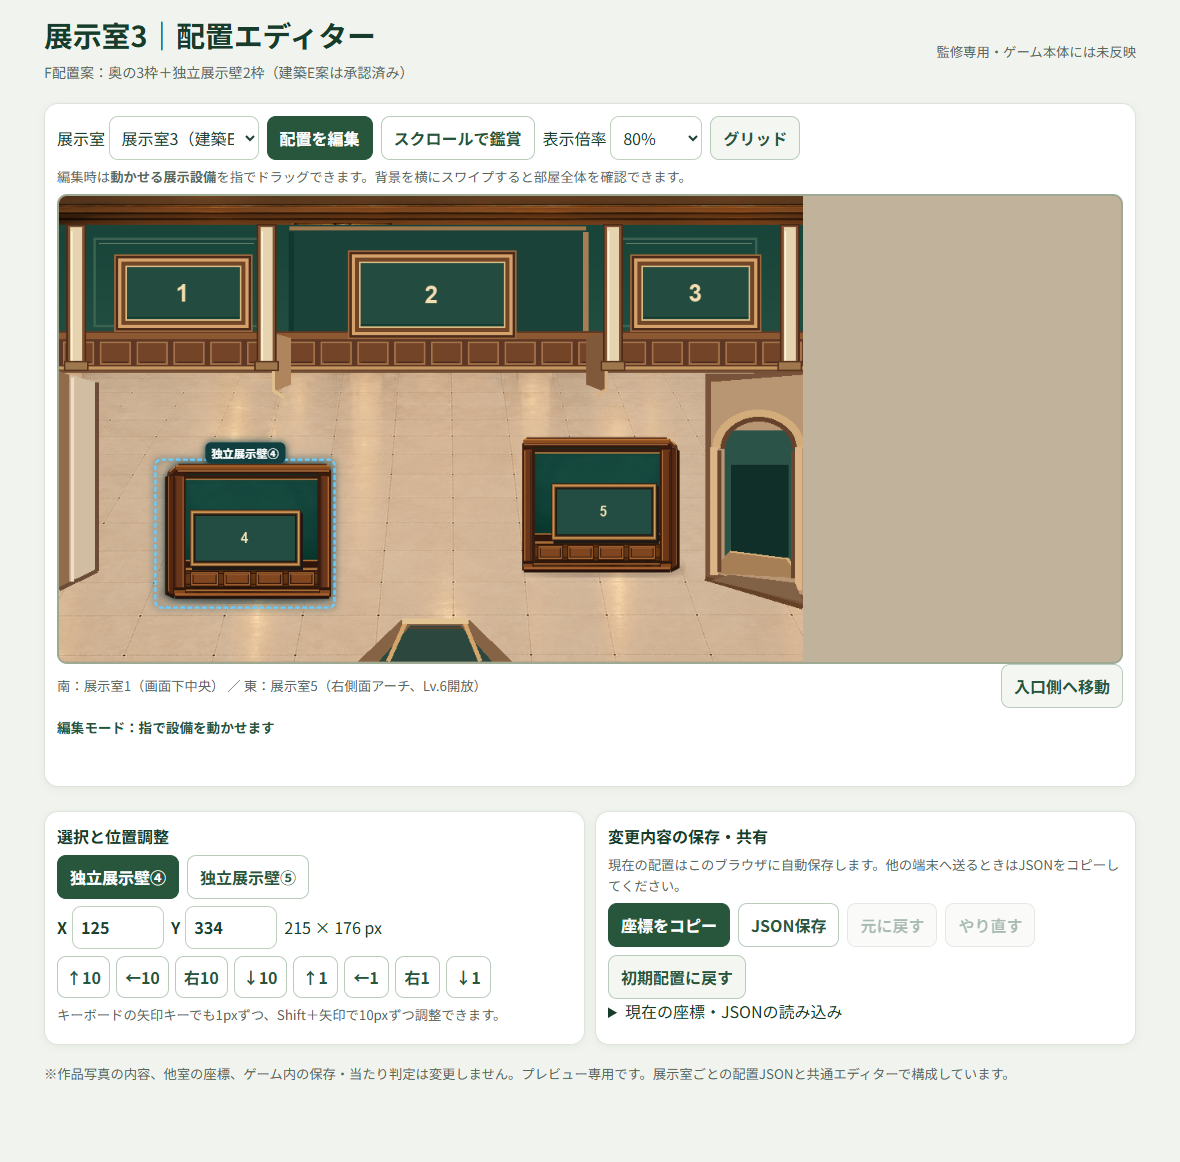
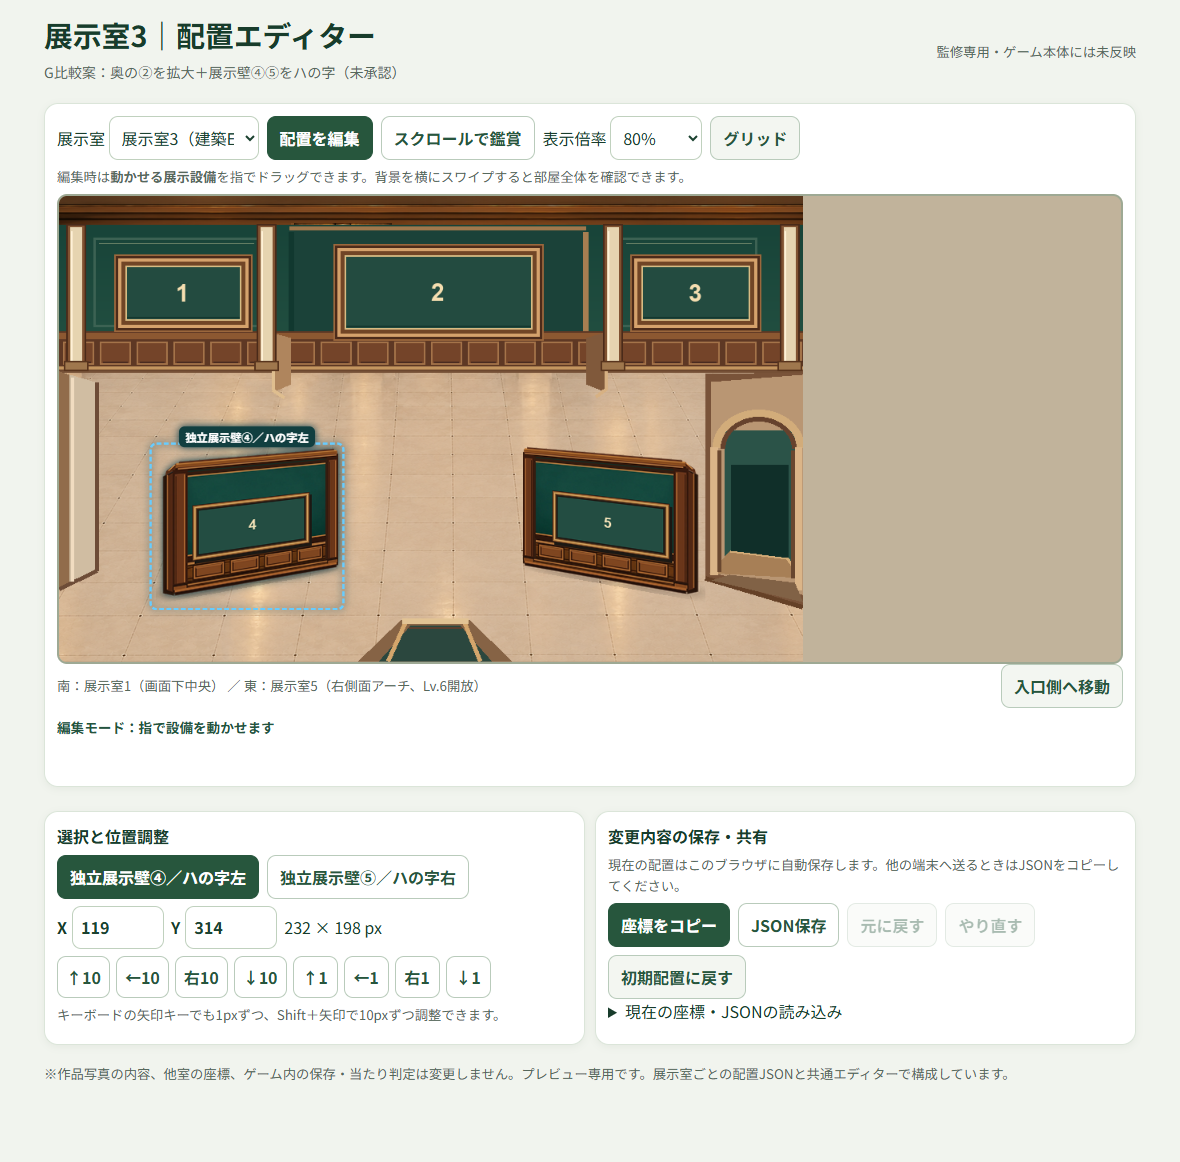
feat(a18): compare enlarged central frame and Hachi-angled walls in gallery3 G

diff --git a/qa/gallery3_angle_G.py b/qa/gallery3_angle_G.py
@@ -1,0 +1,101 @@
+"""Exhibition room 3 G: larger central frame and symmetric Hachi-shaped angled partitions.
+
+Architecture E remains byte-exact; preserves F as independent comparison.
+Proposal only. No game implementation/collision claims.
+"""
+from pathlib import Path
+from PIL import Image, ImageDraw, ImageFont
+import numpy as np
+import json, hashlib, shutil
+
+root=Path(__file__).resolve().parents[1]
+f=root/"rooms/gallery3"
+e_arch=f/"gallery3_architecture_only_E.png"
+sha_e=hashlib.sha256(e_arch.read_bytes()).hexdigest()
+config=f/"room.json"
+room=json.loads(config.read_text(encoding="utf-8"))
+assert room["id"]=="gallery3" and room["layoutRevision"] in ("gallery3-E-architecture-approved-F-five-frames-unapproved-20261029","gallery3-E-approved-G-hachi-proposal-20261029")
+assert sorted(o["id"] for o in room["objects"])==["wall4","wall5"]
+# Snapshot F's coordinates/layout in JSON before switching editor to the proposed G.
+f_ref=f/"room_F_reference.json"
+if room["layoutRevision"]=="gallery3-E-architecture-approved-F-five-frames-unapproved-20261029":
+    assert not f_ref.exists(), "F snapshot already exists"
+    f_ref.write_text(json.dumps(room,ensure_ascii=False,indent=2)+"\n",encoding="utf-8")
+else:
+    assert json.loads(f_ref.read_text(encoding="utf-8"))["layoutRevision"]=="gallery3-E-architecture-approved-F-five-frames-unapproved-20261029"
+
+# E architecture, unmodified. Positions #1 and #3 from approved F initial proposal.
+arch=Image.open(e_arch).convert("RGBA")
+bg=arch.copy()
+d=ImageDraw.Draw(bg)
+font=ImageFont.truetype(r"C:\Windows\Fonts\arialbd.ttf",30)
+rear=[(1,74,78,162,86),(2,348,65,252,110),(3,719,78,153,86)]
+for n,x,y,w,h in rear:
+    d.rectangle((x-5,y-5,x+w+5,y+h+5),fill="#4c2b1a",outline="#9b673c",width=2)
+    d.rectangle((x,y,x+w,y+h),fill="#714526",outline="#d5a26c",width=4)
+    d.rectangle((x+9,y+9,x+w-9,y+h-9),fill="#234b40",outline="#d7bb83",width=2)
+    d.line((x+11,y+h-13,x+w-11,y+h-13),fill="#15382f",width=2)
+    d.text((x+w/2,y+h/2),str(n),fill="#f5deb0",font=font,anchor="mm")
+bg.save(f/"gallery3_layout_G_rear_frames.png")
+
+def perspective_wall(src_path, out_path, quad, size=(232,198)):
+    """Map rectangular front face to a tilted-in-depth quadrilateral (NOT rotate pixels)."""
+    src=Image.open(src_path).convert("RGBA")
+    sw,sh=src.size
+    # Solve 3x3 homography H: destination local coords -> source coords.
+    pts=[(0,0),(sw,0),(sw,sh),(0,sh)]
+    a=[]; b=[]
+    for (xd,yd),(xs,ys) in zip(quad,pts):
+        a.append([xd,yd,1,0,0,0,-xs*xd,-xs*yd]); b.append(xs)
+        a.append([0,0,0,xd,yd,1,-ys*xd,-ys*yd]); b.append(ys)
+    v=np.linalg.solve(np.array(a,dtype=float),np.array(b,dtype=float))
+    warped=src.transform(size,Image.Transform.PERSPECTIVE,tuple(v),resample=Image.Resampling.BICUBIC,fillcolor=(0,0,0,0))
+    warped.save(out_path)
+    return warped
+
+# Perspective: left slants / up to center, right slants back down \.
+width,height=232,198
+left=perspective_wall(f/"wall4.png",f/"wall4_angle_G.png",
+                      [(2,20),(230,1),(230,155),(2,196)])
+right=perspective_wall(f/"wall5.png",f/"wall5_angle_G.png",
+                       [(2,1),(230,20),(230,196),(2,155)])
+items=[
+ ("wall4","独立展示壁④／ハの字左",119,314,width,height,"wall4_angle_G.png"),
+ ("wall5","独立展示壁⑤／ハの字右",578,312,width,height,"wall5_angle_G.png")
+]
+for _,_,x,y,w,h,_ in items:assert x>=0 and y>=0 and x+w<930 and y+h<582
+# South entrance ground threshold is centered x~470 near lower edge.
+assert all((x+w<395 or x>540 or y+h<527) for _,_,x,y,w,h,_ in items)
+# East exit begins near right wall x=808, leave extra margin.
+assert items[1][2]+items[1][4]<=810
+
+view=bg.copy()
+for n,label,x,y,w,h,filename in items:
+    view.alpha_composite(Image.open(f/filename).convert("RGBA"),(x,y))
+view.save(f/"gallery3_layout_G_hachi.png")
+
+# Honest side-by-side comparison with the exact F image.
+f_img=Image.open(f/"gallery3_layout_F_five_frames.png").convert("RGB")
+g_img=view.convert("RGB")
+compare=Image.new("RGB",(930*2+48,582+64),"#f1eadf")
+compare.paste(f_img,(12,54)); compare.paste(g_img,(942,54))
+ad=ImageDraw.Draw(compare)
+headfont=ImageFont.truetype(r"C:\Windows\Fonts\meiryo.ttc",19)
+ad.text((12,18),"F案：従来の正面配置／中央作品200×100",fill="#263a33",font=headfont)
+ad.text((942,18),"G案：中央作品252×110＋ハの字展示壁",fill="#263a33",font=headfont)
+compare.save(f/"gallery3_F_vs_G_comparison.png")
+
+room.update({
+ "background":"rooms/gallery3/gallery3_layout_G_rear_frames.png",
+ "objects":[{"id":n,"label":label,"image":f"rooms/gallery3/{filename}",
+             "rect":{"x":x,"y":y,"w":w,"h":h}}
+            for n,label,x,y,w,h,filename in items],
+ "subtitle":"G比較案：奥の②を拡大＋展示壁④⑤をハの字（未承認）",
+ "layoutRevision":"gallery3-E-approved-G-hachi-proposal-20261029",
+ "status":"E architectural outline approved, G frame sizes/angles unapproved",
+ "notes":"E architectural base remains preserved unchanged. Rear 1&3 unchanged. Rear 2 enlarged 200x100 =>252x110; movable 4&5 perspective-distorted as dedicated images, no geometric rotation applied to a flat rectangle. Walkability, wall footprints, layer sorting and staff placement pending QA.",
+})
+config.write_text(json.dumps(room,ensure_ascii=False,indent=2)+"\n",encoding="utf-8")
+assert hashlib.sha256(e_arch.read_bytes()).hexdigest()==sha_e
+print("PASS G",view.size,"rear",len(rear),"angled panels",len(items),"E sha",sha_e[:12])
+print("INFO G objects",[(x[0],x[2:6]) for x in items])

diff --git a/qa/check_gallery3_live.py b/qa/check_gallery3_live.py
@@ -15,17 +15,19 @@ try:
    ctx=browser.new_context(viewport={'width':width,'height':850})
    page=ctx.new_page();errors=[]
    page.on('pageerror',lambda e:errors.append(str(e)))
-   res=page.goto(f'http://127.0.0.1:{server.server_port}/?room=gallery3&rev=F-qa',wait_until='networkidle')
+   res=page.goto(f'http://127.0.0.1:{server.server_port}/?room=gallery3&rev=G-qa',wait_until='networkidle')
    assert res.status==200
    page.wait_for_function('window.__A18_LAYOUT_EDITOR__ && window.__A18_LAYOUT_EDITOR__.getState().roomId === "gallery3"')
    state=page.evaluate('window.__A18_LAYOUT_EDITOR__.getState()')
-   # F layout draft: 3 baked rear frames plus 2 movable walls, total exactly 5.
+   # G proposal: 3 fixed rear frames (2 enlarged) + 2 perspective-skewed movable walls.
    assert len(state['objects'])==2,state
    assert set(state['objects'])=={'wall4','wall5'},state
+   assert state['objects']['wall4']=={'x':119,'y':314,'w':232,'h':198},state
+   assert state['objects']['wall5']=={'x':578,'y':312,'w':232,'h':198},state
    assert state['roomId']=='gallery3',state
    assert page.locator('#zoom').input_value()==('.35' if width==390 else '.8')
    assert all(e.evaluate('e=>e.complete && e.naturalWidth>0') for e in page.locator('#stage img').all())
-   assert all('rev=F-qa' in src for src in page.locator('#stage img').evaluate_all('(els)=>els.map(e=>e.src)'))
+   assert all('rev=G-qa' in src for src in page.locator('#stage img').evaluate_all('(els)=>els.map(e=>e.src)'))
    assert not errors,errors
    page.screenshot(path=str(root/'rooms/gallery3'/f'editor_gallery3_{width}.png'),full_page=True)
    print('PASS gallery3',width,state['objects'])

diff --git a/rooms/gallery3/LAYOUT_G_REVIEW_20261029.md b/rooms/gallery3/LAYOUT_G_REVIEW_20261029.md
@@ -1,0 +1,29 @@
+# A18 展示室3｜G案（2番拡大・4/5ハの字）未承認プレビュー
+
+## 監修発言
+ユーザー：「2はちょっと大きくしよか。4と5をハの字に斜めにする？ 意味はあんまりないねんけど、レイアウトの差別化ってだけ。どう思う？」
+
+これはG案の**試作・意見交換**であり、Gを正式承認した発言ではない。建築Eは承認済みで変更禁止。
+
+## 見た目の設計
+- 奥2：F案 200×100（x366,y73）→ G案 **252×110**（x348,y65）。凹み中央を主役にしつつ両端の柱・凹みはそのまま。
+- 奥1・奥3：F案と同じ位置・サイズ。
+- 独立展示壁4：x119,y314、画像232×198。専用斜めパース素材 `wall4_angle_G.png`。左から中央奥へ向かう「／」方向の壁。
+- 独立展示壁5：x578,y312、画像232×198。専用斜めパース素材 `wall5_angle_G.png`。「＼」方向で左右のバランスを取る。
+- **単純な2D回転ではなく、額縁面を台形投影**して、正面向きの展示壁と違う立体感を作った。描画画像の四隅形状のみ監修用の仮表現であり、ゲームの当たり判定・歩行可能な空間の実測値ではない。
+- 5枠固定。作品番号と展示壁の独立レイヤーを保持。E案の南中央入口、東側面出口を変更していない。
+
+## 成果物
+- 正本のE建築：`gallery3_architecture_only_E.png`（ハッシュ不変検証あり）
+- F案の比較基準：`gallery3_layout_F_five_frames.png` と `room_F_reference.json`
+- Gの奥壁素材：`gallery3_layout_G_rear_frames.png`
+- G合成全景：`gallery3_layout_G_hachi.png`
+- F/G比較：`gallery3_F_vs_G_comparison.png`
+- 斜めの2設備は `room.json` のobjectとして監修用エディターで位置調整可能。未承認、まだゲームへは反映しない。
+
+## 未実装・次工程
+F/Gを目で比較してユーザー承認後、staff、通行判定、衝突領域、影・レイヤー、位置補正を後工程として別QAを行う。
+今回の見た目だけでは「この角度で通れる」とは断言できない。
+
+## Git
+既存の `a18-gallery-layout-editor` `work/a18-gallery-layout-preview-20261028` で継続。変更は監修用プレビューのみ。issue/main、ゲームソース・ゲーム公開物への無断マージ・変更は禁止。
